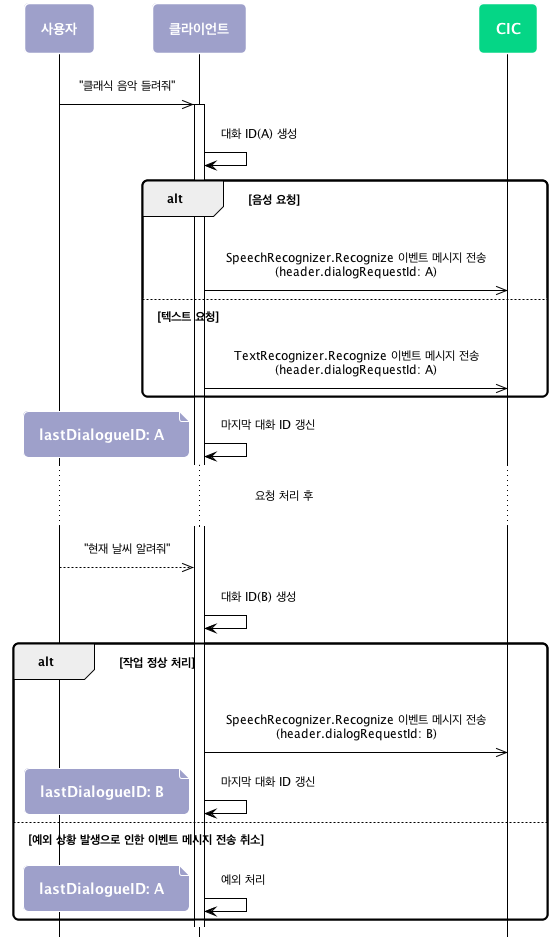
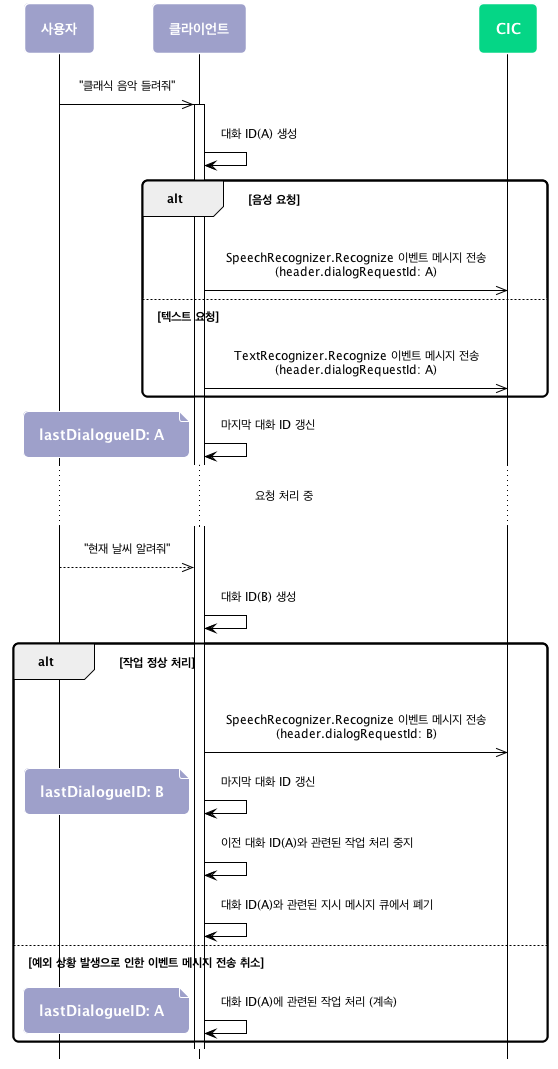
Correct typo and document error

diff --git a/ko-KR/CIC/Guides/ImplementClientFeatures/Manage_Dialogue_ID_And_Handle_Tasks.md b/ko-KR/CIC/Guides/ImplementClientFeatures/Manage_Dialogue_ID_And_Handle_Tasks.md
@@ -7,7 +7,9 @@
 
 ### 대화 ID 생성하기 {#CreatingDialogueID}
 
-**대화 ID**는 사용자의 요청을 식별하기 위해 사용자가 발화를 시작할 때마다 생성하는 ID입니다. 클라이언트는 CIC에 전달한 사용자의 요청을 CIC로 보낼 때마다 마지막 사용자 요청의 대화 ID를 기억해야하며, CIC로 사용자 요청을 전달할 때마다 마지막으로 보낸 대화 ID를 갱신해야 합니다.
+**대화 ID**는 사용자의 요청을 식별하기 위해 사용자가 발화를 시작할 때마다 생성하는 식별자입니다. 클라이언트는 CIC에 전달한 사용자의 요청을 CIC로 보낼 때마다 마지막 사용자 요청의 대화 ID를 기억해야하며, CIC로 사용자 요청을 전달할 때마다 **마지막 대화 ID**를 갱신해야 합니다.
+
+**마지막 대화 ID**란 클라이언트가 CIC에게 마지막으로 보낸 [SpeechRecognizer.Recognize](/CIC/References/CICInterface/SpeechRecognizer.md#Recognize) 이벤트 메시지나 [TextRecognizer.Recognize](/CIC/References/CICInterface/TextRecognizer.md#Recognize) 이벤트 메시지에 포함된 대화 ID이며, 클라이언트는 이 마지막 대화 ID를 잘 저장해 두어야 합니다.
 
 클라이언트는 다음과 같이 동작을 수행해야 합니다.
 
@@ -18,27 +20,25 @@
   * 이때 [이벤트 메시지의 헤더](/CIC/References/CIC_API.md#Event)의 `dialogRequestId`에 새로 생성한 대화 ID를 포함시킵니다.
 3. 이벤트 메시지를 전송한 후 생성한 대화 ID를 **마지막 대화 ID**로 기록해 두어야 합니다.
 
-<div class="note">
+<div class="danger">
 <p><strong>Caution!</strong></p>
-<p>마지막 대화 ID는 **반드시 이벤트 메시지를 전송한 후 갱신**해야 합니다.</p>
+<p>마지막 대화 ID는 <strong>반드시 <a href="/CIC/References/CICInterface/SpeechRecognizer.md#Recognize">SpeechRecognizer.Recognize</a> 이벤트 메시지나 <a href="/CIC/References/CICInterface/TextRecognizer.md#Recognize">TextRecognizer.Recognize</a> 이벤트 메시지 전송을 완료한 후 갱신</strong>되어야 합니다.</p>
 </div>
 
-마지막 대화 ID를 업데이트하게되면 클라이언트는 추후 새 대화 ID를 가진 지시 메시지를 처리하기 위해 다음과 같은 것을 수행해야 합니다.
+마지막 대화 ID를 업데이트했으면 클라이언트는 새 [대화 ID를 가진 지시 메시지를 처리하기](#HandleDirectivesByDialogueID) 위해 다음과 같은 것을 수행해야 합니다.
 
 * 이전 대화 ID를 가진 지시 메시지의 내용을 사용자에게 제공하고 있다면 [기본 오디오 재생 규칙](/Design/Design_Guideline_For_Client_Hardware.md#AudioInterruptionRule)이나 [사용자 발화 시 오디오 재생 규칙](/Design/Design_Guideline_For_Client_Hardware.md#AudioInterruptionRuleForUserUtterance)을 참고하여 이를 중단해야 합니다.
 * [메시지 큐](/CIC/Guides/Interact_with_CIC.md#ManageMessageQ)에서 이전 대화 ID를 가진 지시 메시지를 모두 폐기해야 합니다.
 
 ### 대화 ID에 따라 지시 메시지 처리하기 {#HandleDirectivesByDialogueID}
 
-CIC는 사용자 요청에 대한 응답으로 지시 메시지를 클라이언트에게 보내며, 이 지시 메시지에 사용자 요청 수신 시 받았던 대화 ID 정보를 포함시킵니다. 따라서, 대화 ID를 통해 CIC로부터 전달된 결과가 현재 사용자의 요청에 부합한 응답인지 확인할 수 있습니다.
-
-클라이언트는 대화 ID가 담긴 지시 메시지를 다음과 같이 처리해야 합니다.
+일반적으로 CIC는 사용자 요청에 대한 응답으로 지시 메시지를 클라이언트에게 보내며, 이 지시 메시지에 [클라이언트가 생성한 대화 ID](#CreatingDialogueID)를 포함시킵니다. 따라서, 대화 ID를 이용하면 CIC로부터 전달된 결과가 현재 사용자의 요청에 부합하는 응답인지 확인할 수 있습니다. 클라이언트는 대화 ID에 따라 지시 메시지를 다음과 같이 처리해야 합니다.
 
 ![](/CIC/Resources/Images/CIC_Handle_Directives_By_Dialogue_ID.png)
 
-클라이언트는 CIC로부터 수신한 지시 메시지가 [지시 메시지의 헤더](/CIC/References/CIC_API.md#Directive)에에 대화 ID를 포함하고 있는지 확인해야 합니다. **지시 메시지가 대화 ID를 포함하고 있지 않으면**, **즉시** 수신한 지시 메시지를 처리합니다. 대화 ID가 없는 지시 메시지는 주로 대화를 방해하지 않는 백그라운드 서비스 동작을 요구합니다.
+우선, 클라이언트는 CIC로부터 수신한 지시 메시지가 [지시 메시지의 헤더](/CIC/References/CIC_API.md#Directive)에에 대화 ID를 포함하고 있는지 확인해야 합니다. 대화 ID가 포함된 지시 메시지를 수신했다면 **마지막 대화 ID**와 비교하고 그 결과에 따라 다음과 같이 처리합니다.
 
-만약 대화 ID가 포함된 지시 메시지를 수신했다면 **마지막 대화 ID**와 비교하고 그 결과에 따라 다음과 같이 처리합니다.
+* **두 대화 ID가 서로 같으면**, 수신한 메시지를 [메시지 큐](/CIC/Guides/Interact_with_CIC.md#ManageMessageQ)에 추가하고 순서에 맞게 내용을 사용자에게 제공하면 됩니다.
+* **두 대화 ID가 서로 다르면**, 수신한 지시 메시지를 폐기하면 됩니다.
 
-* **두 대화 ID가 서로 같으면**, 수신한 메시지를 [메시지 큐](/CIC/Guides/Interact_with_CIC.md#ManageMessageQ)에 추가하고 나중에 차례가 되면 해당 내용을 사용자에게 제공합니다.
-* **두 대화 ID가 서로 다르면**, 수신한 지시 메시지를 폐기합니다.
+만약, **지시 메시지가 대화 ID를 포함하고 있지 않으면**, 클라이언트는 **즉시** 수신한 지시 메시지를 처리해야 합니다. 대화 ID가 없는 지시 메시지는 주로 [downchannel](/CIC/References/CIC_API.md#EstablishDownchannel)을 통해 전달되며 대화를 방해하지 않는 백그라운드 서비스 동작을 요구합니다.
